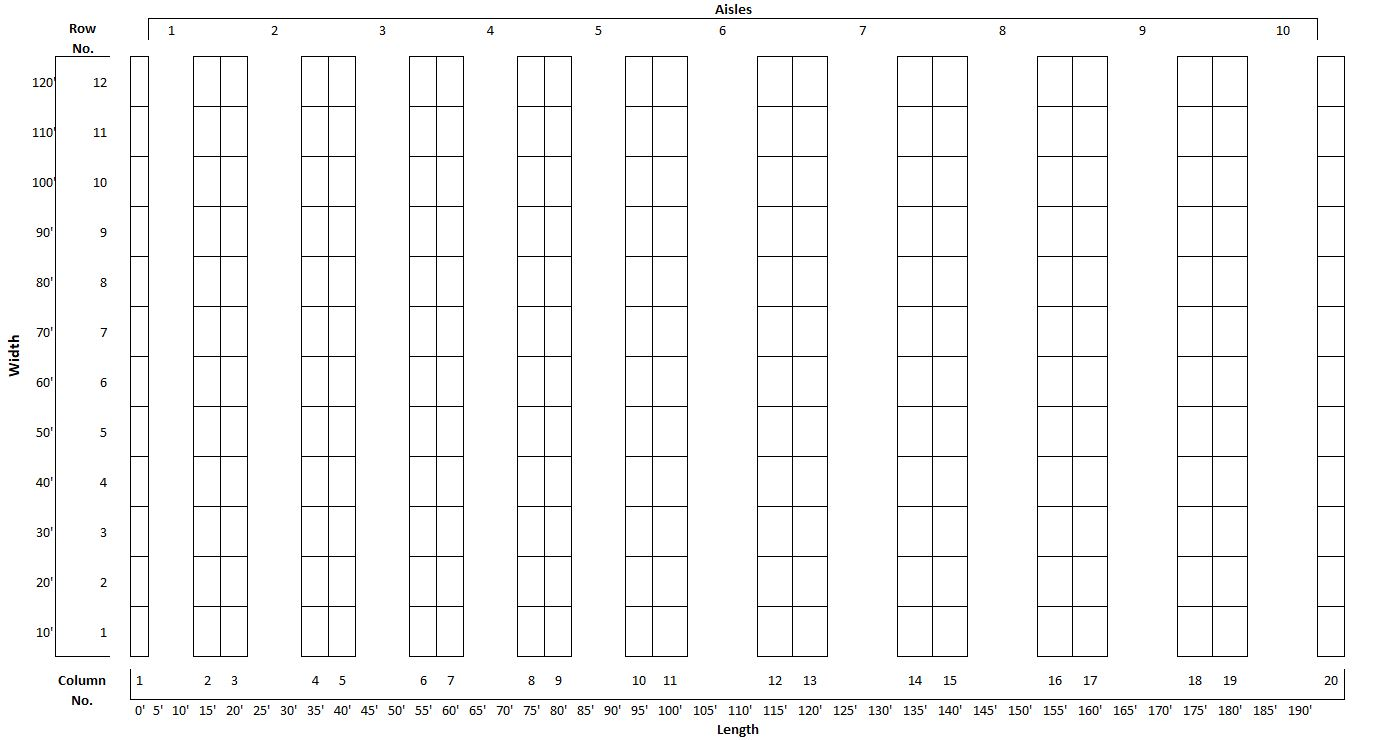
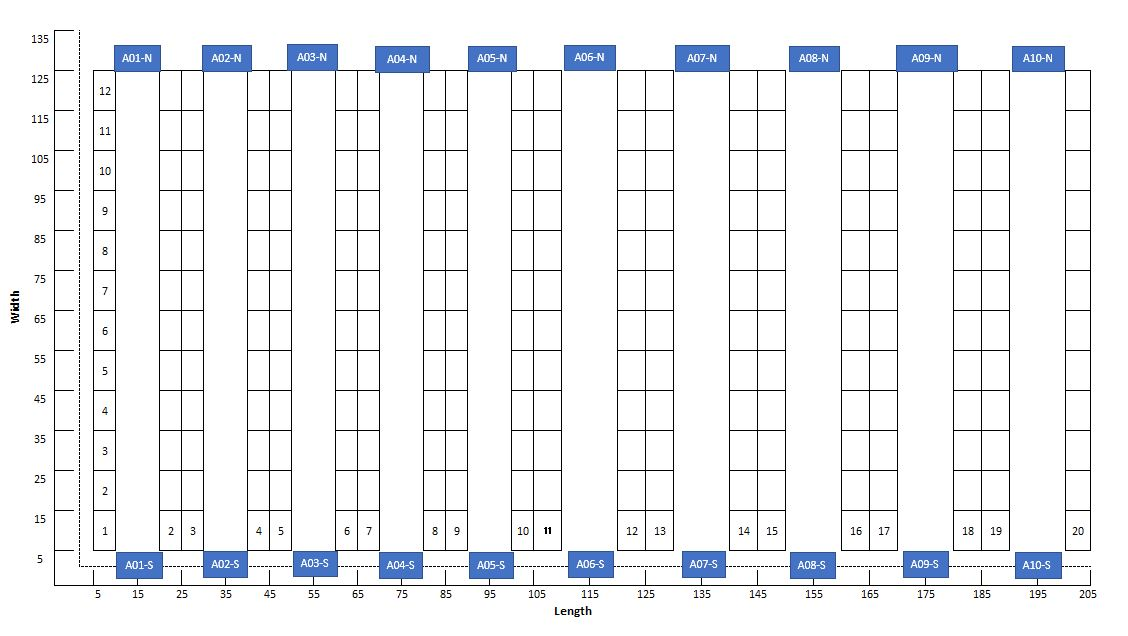
Revised base layout and SQL to calculate distances more accurately

diff --git a/pre_processing.py b/pre_processing.py
@@ -18,6 +18,63 @@ def import_dataset():
     con = pymysql.connect(user=user, password=pw, host=host, database=db)
     with con.cursor() as cur:
         try:
+            query = """
+                SELECT 
+                tbl_wms_orders.timestamp, 
+                tbl_wms_orders.sku, tbl_wms_orders.quantity, 
+                tbl_wms_coordinates.location AS poo, 
+                tbl_wms_coordinates.x_coordinate AS poo_x, 
+                tbl_wms_coordinates.y_coordinate AS poo_y, 
+                tbl_wms_coordinates_1.location AS pod, 
+                tbl_wms_coordinates_1.x_coordinate AS pod_x, 
+                tbl_wms_coordinates_1.y_coordinate AS pod_y
+                FROM tbl_wms_coordinates AS tbl_wms_coordinates_1 
+                INNER JOIN (tbl_wms_coordinates INNER JOIN tbl_wms_orders ON tbl_wms_coordinates.id = tbl_wms_orders.fk_poo) ON tbl_wms_coordinates_1.id = tbl_wms_orders.fk_pod
+                ORDER BY tbl_wms_orders.timestamp ASC;"""
+            cur.execute(query)
+            col = cur.description
+            rows = cur.fetchall()
+
+            for i in range(len(col)):
+                headers.append(col[i][0])
+
+            # SQL query to dict
+            for row in rows:
+                count += 1
+                temp_dict = {count: {
+                    headers[0]: dt.isoformat(row[0]),
+                    headers[1]: row[1],
+                    headers[2]: row[2],
+                    headers[3]: row[3],
+                    headers[4]: row[4],
+                    headers[5]: row[5],
+                    headers[6]: row[6],
+                    headers[7]: row[7],
+                    headers[8]: row[8],
+                    "poo_coord": (row[4], row[5]),
+                    "pod_coord": (row[7], row[8])
+                }}
+                data.update(temp_dict)
+        finally:
+            con.commit()
+    cur.close()
+    con.close()
+    return data
+
+def import_dataset_original():
+    sql = pydict.localhost.get
+    user = sql('user')
+    pw = sql('password')
+    host = sql('host')
+    db = sql('database')
+    count = 0
+    dt = datetime
+    data = {}
+    headers = []
+
+    con = pymysql.connect(user=user, password=pw, host=host, database=db)
+    with con.cursor() as cur:
+        try:
             qry_create_table = """
              SELECT 
              tbl_wms_orders.timestamp, 
@@ -74,25 +131,30 @@ def import_dataset():
     con.close()
     return data
 
+
+
 import_dataset()
 
 d = import_dataset()
 
+y_low = 0
+y_high = 130
+origin = (0, 0)
+picks = []
+
 for i in range(len(d)):
-    start_loc = (1, 12)
-    y_low = 1
-    y_high = 12
-    loc1 = d[i+1]['item_coord']
-    loc2 = d[i+1]['dest_coord']
-
-    #dist = cd.distance_picking(loc1, loc2, 1, 12)
-
+    poo = d[i+1]['poo']
+    pod = d[i+1]['pod']
+    picks.append(d[i+1]['poo_coord'])
+    loc1 = d[i+1]['poo_coord']
+    end = d[i+1]['pod_coord']
+    print(poo, loc1)
 
 
-list_locs = [[1, 12], [19, 12], [2, 2], [10, 12]]
-start_loc = (1, 1)
-y_low = 1
-y_high = 12
 
-#cd.next_location(start_loc, list_locs, y_low, y_high)
-cd.create_picking_route(start_loc, list_locs, y_low, y_high)
+
+
+#cd.next_location(origin, picks, y_low, y_high)
+print("\nRoute")
+cd.create_picking_route(origin, picks, y_low, y_high)
+#cd.create_picking_route(start_loc, list_locs, y_low, y_high)

diff --git a/sql_tables.py b/sql_tables.py
@@ -170,9 +170,32 @@ def tbl_wms_coordinates():
             qry_create_table = """
             CREATE TABLE IF NOT EXISTS tbl_wms_coordinates(
             id INT AUTO_INCREMENT PRIMARY KEY,
-            storage_location TEXT,
+            location TEXT,
             x_coordinate INT,
             y_coordinate INT)
+            ENGINE=INNODB;"""
+            cur.execute(qry_create_table)
+        finally:
+            con.commit()
+    cur.close()
+    con.close()
+
+def tbl_wms_distances():
+    sql = pydict.localhost.get
+    user = sql('user')
+    pw = sql('password')
+    host = sql('host')
+    db = sql('database')
+
+    con = pymysql.connect(user=user, password=pw, host=host, database=db)
+    with con.cursor() as cur:
+        try:
+            qry_create_table = """
+            CREATE TABLE IF NOT EXISTS tbl_wms_distances(
+            id INT AUTO_INCREMENT PRIMARY KEY,
+            fk_point_of_origin INT,
+            fk_point_of_destination INT,
+            distance INT)
             ENGINE=INNODB;"""
             cur.execute(qry_create_table)
         finally:
@@ -194,9 +217,11 @@ def tbl_wms_orders():
             CREATE TABLE IF NOT EXISTS tbl_wms_orders(
             id INT AUTO_INCREMENT PRIMARY KEY,
             timestamp DATETIME,
-            reference_id INT,
-            quantity INT,
-            destination TEXT)
+            order_id INT,
+            sku TEXT,
+            fk_poo INT,
+            fk_pod INT,
+            quantity INT)
             ENGINE=INNODB;"""
             cur.execute(qry_create_table)
         finally:
@@ -207,5 +232,6 @@ def tbl_wms_orders():
 def tables():
     tbl_wms_master_data()
     tbl_wms_coordinates()
+    tbl_wms_distances()
     tbl_wms_orders()
 tables()

diff --git a/calculate_distance.py b/calculate_distance.py
@@ -44,7 +44,7 @@ def next_location(start_loc, list_locs, y_low, y_high):
     index_min = list_dist.index(min(list_dist))
     next_loc = list_locs[index_min]  # Next location is the first location with distance = min (**)
     list_locs.remove(next_loc)  # Next location is removed from the list of candidates
-    print(list_locs, "start=", start_loc, "next=", next_loc, "d-next=", distance_next)
+    print(list_locs, "start=", start_loc, "next=", next_loc, "distance to next pick=", distance_next)
 
     return list_locs, start_loc, next_loc, distance_next
 
